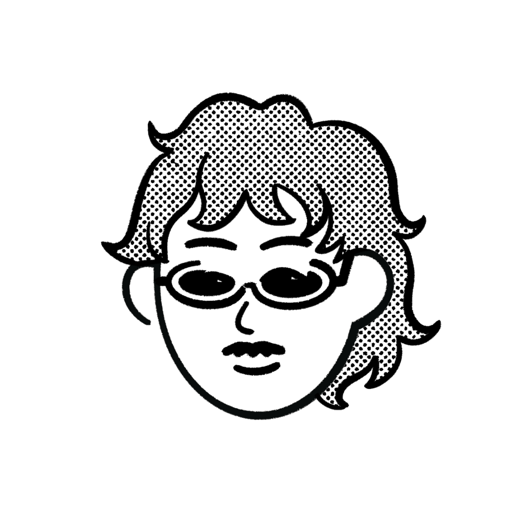
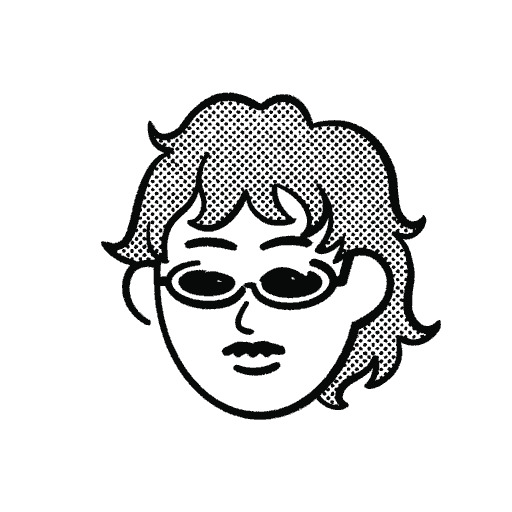
feat: optimize SEO and performance

diff --git a/app/page.tsx b/app/page.tsx
@@ -1,11 +1,43 @@
 import { textLinkClassName } from "./_components/external-link";
 import { ProjectList } from "./_components/project-list";
 import { SiteNavigation } from "./_components/site-navigation";
-import { profile } from "./content";
+import { profile, socialLinks } from "./content";
+import { site } from "./site";
+
+const jsonLd = {
+  "@context": "https://schema.org",
+  "@type": "ProfilePage",
+  "@id": `${site.url}/#profile-page`,
+  url: site.url,
+  name: site.title,
+  description: site.description,
+  inLanguage: site.language,
+  mainEntity: {
+    "@type": "Person",
+    "@id": `${site.url}/#person`,
+    name: profile.name,
+    alternateName: profile.handle,
+    url: site.url,
+    image: `${site.url}/icon.png`,
+    jobTitle: profile.role,
+    email: profile.email,
+    homeLocation: {
+      "@type": "Place",
+      name: profile.location,
+    },
+    sameAs: socialLinks.map(({ href }) => href),
+  },
+};
 
 export default function Home() {
   return (
     <main className="min-h-screen min-h-svh min-h-dvh select-none pt-[calc(1.5rem+env(safe-area-inset-top))] pr-[calc(1.5rem+env(safe-area-inset-right))] pb-[calc(1.5rem+env(safe-area-inset-bottom))] pl-[calc(1.5rem+env(safe-area-inset-left))] max-[23rem]:pt-[calc(1rem+env(safe-area-inset-top))] max-[23rem]:pr-[calc(1rem+env(safe-area-inset-right))] max-[23rem]:pb-[calc(1rem+env(safe-area-inset-bottom))] max-[23rem]:pl-[calc(1rem+env(safe-area-inset-left))] [@media(min-width:48rem)_and_(min-height:42.01rem)]:pt-[calc(3rem+env(safe-area-inset-top))] [@media(min-width:48rem)_and_(min-height:42.01rem)]:pr-[calc(3rem+env(safe-area-inset-right))] [@media(min-width:48rem)_and_(min-height:42.01rem)]:pb-[calc(3rem+env(safe-area-inset-bottom))] [@media(min-width:48rem)_and_(min-height:42.01rem)]:pl-[calc(3rem+env(safe-area-inset-left))]">
+      <script
+        type="application/ld+json"
+        dangerouslySetInnerHTML={{
+          __html: JSON.stringify(jsonLd).replace(/</g, "\\u003c"),
+        }}
+      />
       <div className="flex w-full max-w-[26rem] flex-col gap-8 [@media(max-height:42rem)]:gap-6 [@media(max-width:23rem)_and_(max-height:42rem)]:gap-4">
         <SiteNavigation />
 

diff --git a/app/layout.tsx b/app/layout.tsx
@@ -1,5 +1,9 @@
 import type { Metadata, Viewport } from "next";
 import { Geist_Mono } from "next/font/google";
+import { Analytics } from "@vercel/analytics/next";
+import { SpeedInsights } from "@vercel/speed-insights/next";
+import { profile } from "./content";
+import { site } from "./site";
 import "./globals.css";
 
 const geistMono = Geist_Mono({
@@ -8,9 +12,45 @@ const geistMono = Geist_Mono({
 });
 
 export const metadata: Metadata = {
-  title: "Henrique Krause, Software Engineer",
-  description:
-    "Software engineer building thoughtful products, interfaces, and tools for humans and agents.",
+  metadataBase: new URL(site.url),
+  title: {
+    default: site.title,
+    template: `%s | ${site.name}`,
+  },
+  description: site.description,
+  applicationName: site.name,
+  authors: [{ name: profile.name, url: site.url }],
+  creator: profile.name,
+  publisher: profile.name,
+  category: "technology",
+  alternates: {
+    canonical: "/",
+  },
+  openGraph: {
+    type: "website",
+    url: "/",
+    title: site.title,
+    description: site.description,
+    siteName: site.name,
+    locale: site.locale,
+  },
+  twitter: {
+    card: "summary",
+    title: site.title,
+    description: site.description,
+    creator: `@${site.xHandle}`,
+  },
+  robots: {
+    index: true,
+    follow: true,
+    googleBot: {
+      index: true,
+      follow: true,
+      "max-image-preview": "large",
+      "max-snippet": -1,
+      "max-video-preview": -1,
+    },
+  },
 };
 
 export const viewport: Viewport = {
@@ -32,6 +72,8 @@ export default function RootLayout({ children }: LayoutProps<"/">) {
     >
       <body className="min-h-full min-w-0 overscroll-none bg-background font-mono text-sm leading-5 text-foreground antialiased">
         {children}
+        <Analytics />
+        <SpeedInsights />
       </body>
     </html>
   );

diff --git a/app/_components/project-list.tsx b/app/_components/project-list.tsx
@@ -1,4 +1,3 @@
-import Link from "next/link";
 import { projects } from "../content";
 import { linkFocusClassName } from "./external-link";
 
@@ -10,7 +9,7 @@ export function ProjectList() {
     >
       {projects.map((project) => (
         <article key={project.href}>
-          <Link
+          <a
             className={`${linkFocusClassName} group block bg-black/[0.025] p-4 no-underline [@media(max-height:42rem)]:py-3.5 [@media(max-width:23rem)_and_(max-height:42rem)]:py-3 dark:bg-white/[0.035]`}
             href={project.href}
             target="_blank"
@@ -23,7 +22,7 @@ export function ProjectList() {
               {project.description}
             </p>
             <span className="sr-only"> (opens in a new tab)</span>
-          </Link>
+          </a>
         </article>
       ))}
     </section>

diff --git a/app/_components/external-link.tsx b/app/_components/external-link.tsx
@@ -1,10 +1,6 @@
 import type { ComponentProps } from "react";
-import Link from "next/link";
 
-type ExternalLinkProps = Omit<
-  ComponentProps<typeof Link>,
-  "rel" | "target"
->;
+type ExternalLinkProps = Omit<ComponentProps<"a">, "rel" | "target">;
 
 export const linkFocusClassName =
   "touch-manipulation focus-visible:rounded-sm focus-visible:outline-2 focus-visible:outline-offset-[3px] focus-visible:outline-foreground";
@@ -17,7 +13,7 @@ export function ExternalLink({
   ...props
 }: ExternalLinkProps) {
   return (
-    <Link
+    <a
       {...props}
       className={`${textLinkClassName} ${className ?? ""}`}
       target="_blank"
@@ -25,6 +21,6 @@ export function ExternalLink({
     >
       {children}
       <span className="sr-only"> (opens in a new tab)</span>
-    </Link>
+    </a>
   );
 }

diff --git a/app/manifest.ts b/app/manifest.ts
@@ -1,0 +1,22 @@
+import type { MetadataRoute } from "next";
+import { site } from "./site";
+
+export default function manifest(): MetadataRoute.Manifest {
+  return {
+    name: site.title,
+    short_name: site.name,
+    description: site.description,
+    start_url: "/",
+    display: "standalone",
+    background_color: "#fafafa",
+    theme_color: "#fafafa",
+    lang: site.language,
+    icons: [
+      {
+        src: "/icon.png",
+        sizes: "512x512",
+        type: "image/png",
+      },
+    ],
+  };
+}

diff --git a/app/site.ts b/app/site.ts
@@ -1,0 +1,10 @@
+export const site = {
+  url: "https://cekrause.eu",
+  name: "Henrique Krause",
+  title: "Henrique Krause, Software Engineer",
+  description:
+    "Software engineer in Lisbon building thoughtful products, interfaces, and tools for humans and agents.",
+  locale: "en_US",
+  language: "en",
+  xHandle: "cekrauseee",
+} as const;

diff --git a/app/robots.ts b/app/robots.ts
@@ -1,0 +1,13 @@
+import type { MetadataRoute } from "next";
+import { site } from "./site";
+
+export default function robots(): MetadataRoute.Robots {
+  return {
+    rules: {
+      userAgent: "*",
+      allow: "/",
+    },
+    sitemap: `${site.url}/sitemap.xml`,
+    host: site.url,
+  };
+}

diff --git a/app/sitemap.ts b/app/sitemap.ts
@@ -1,0 +1,12 @@
+import type { MetadataRoute } from "next";
+import { site } from "./site";
+
+export default function sitemap(): MetadataRoute.Sitemap {
+  return [
+    {
+      url: site.url,
+      changeFrequency: "monthly",
+      priority: 1,
+    },
+  ];
+}
